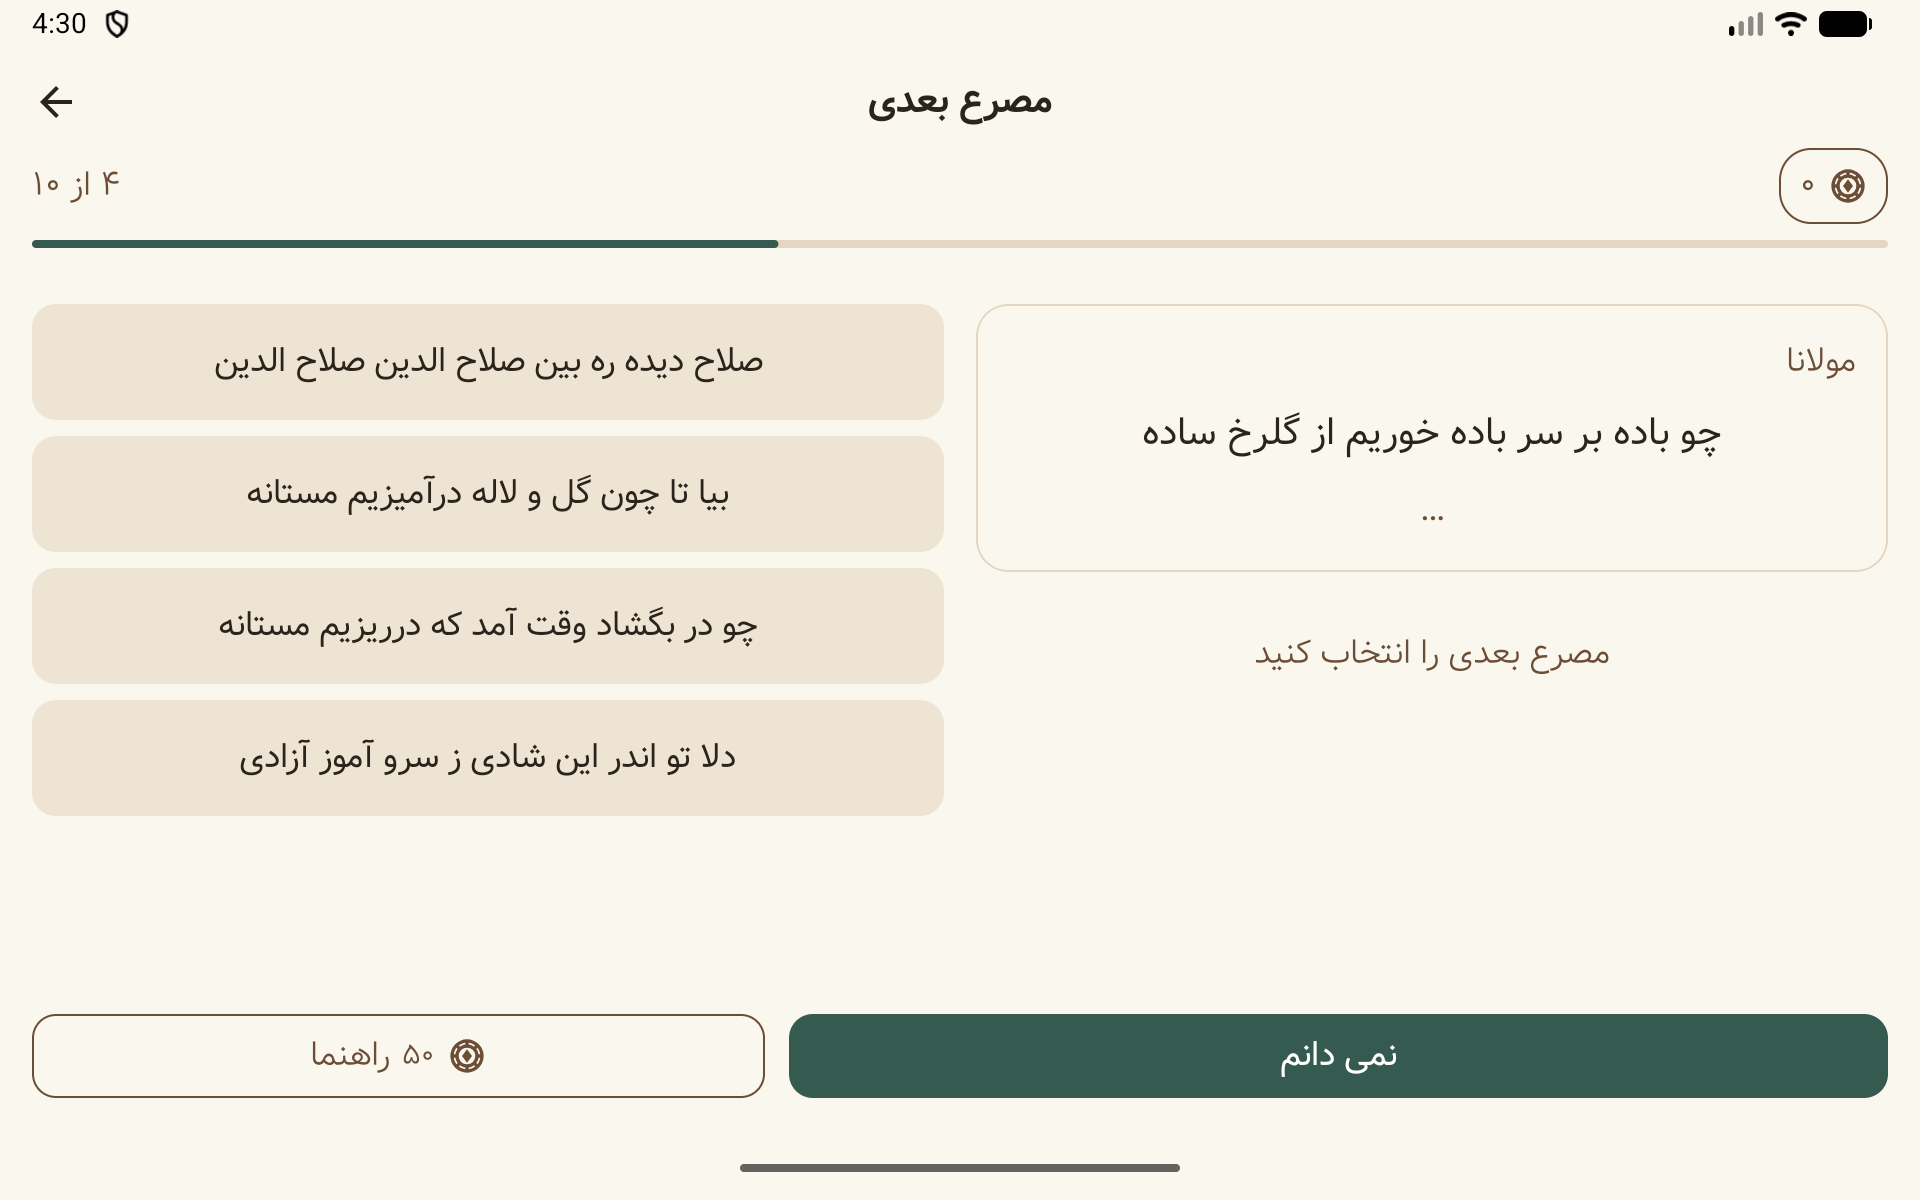
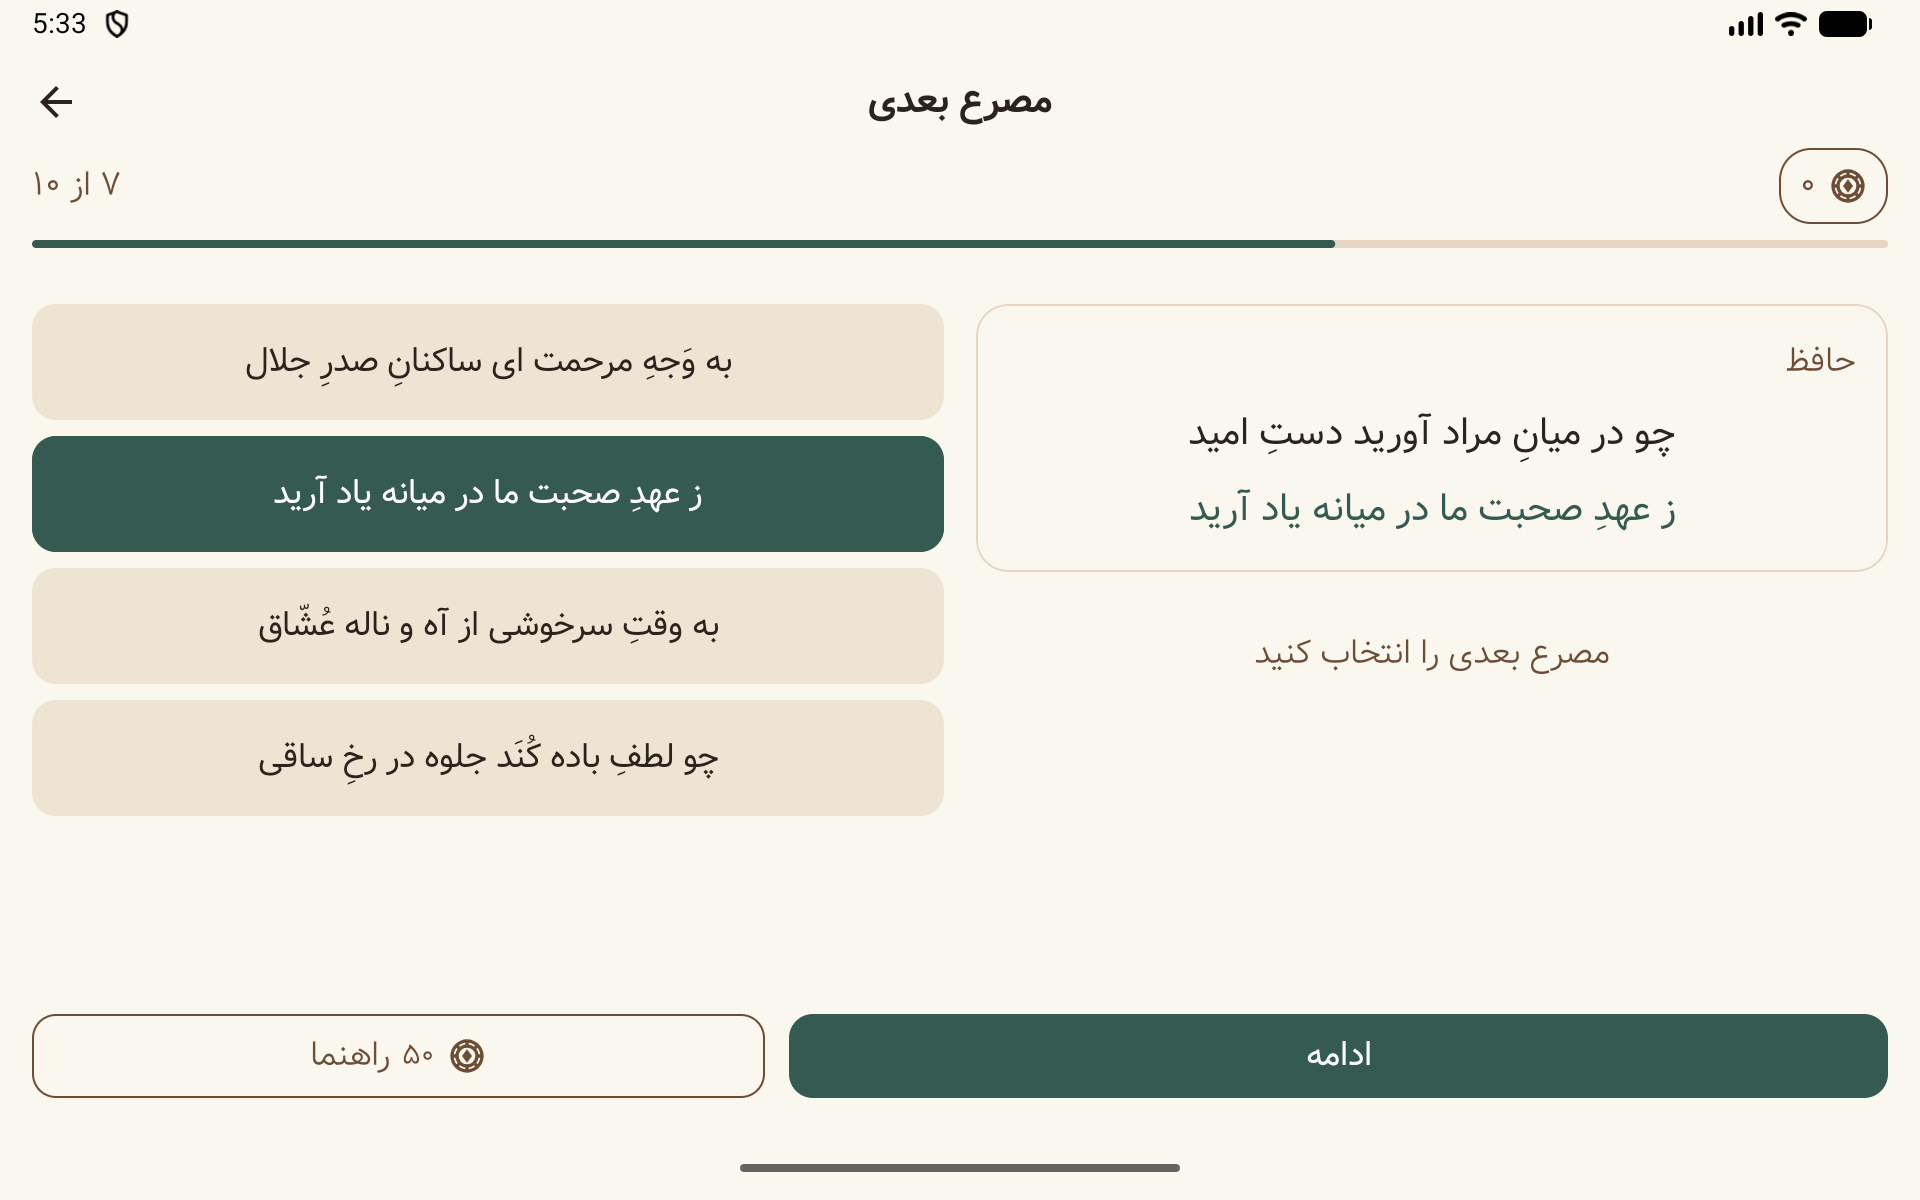
readme changed

diff --git a/README.md b/README.md
@@ -1,27 +1,24 @@
-<p align="center">
-  <img src="androidApp/src/main/res/mipmap-xxxhdpi/ic_launcher.webp" width="192"  alt="sarv logo"/>
-</p>
-
-<h1 align="center">Sarv — سرو</h1>
-
-<p align="center">
+<p>
+  <img src="androidApp/src/main/ic_launcher-playstore.png" width="96" alt="sarv logo" align="left" />
+  <b>Sarv — سرو</b><br>
   A modern Persian poetry app for reading, learning, and playing.
 </p>
+<br clear="all"/>
 
 ---
 
 ## Screenshots
 
-<p align="center">
-  <img src="screenshots/home.jpg" width="240" />&nbsp;&nbsp;
-  <img src="screenshots/poets.jpg" width="240" />&nbsp;&nbsp;
-  <img src="screenshots/games.jpg" width="240" />&nbsp;&nbsp;
-  <img src="screenshots/profile.jpg" width="240" />
+<p float="left">
+  <img src="screenshots/home.png" width="192" />&nbsp;&nbsp;
+  <img src="screenshots/poets.png" width="192" />&nbsp;&nbsp;
+  <img src="screenshots/games.png" width="192" />&nbsp;&nbsp;
+  <img src="screenshots/profile.png" width="192" />
 </p>
 
-<p align="center"><em>Responsive layout — optimized for phones and tablets</em></p>
+<p align="left"><em>Responsive layout — optimized for phones and tablets</em></p>
 
-<p align="center">
+<p float="left">
   <img src="screenshots/tablet.png" width="600" />
 </p>
 
